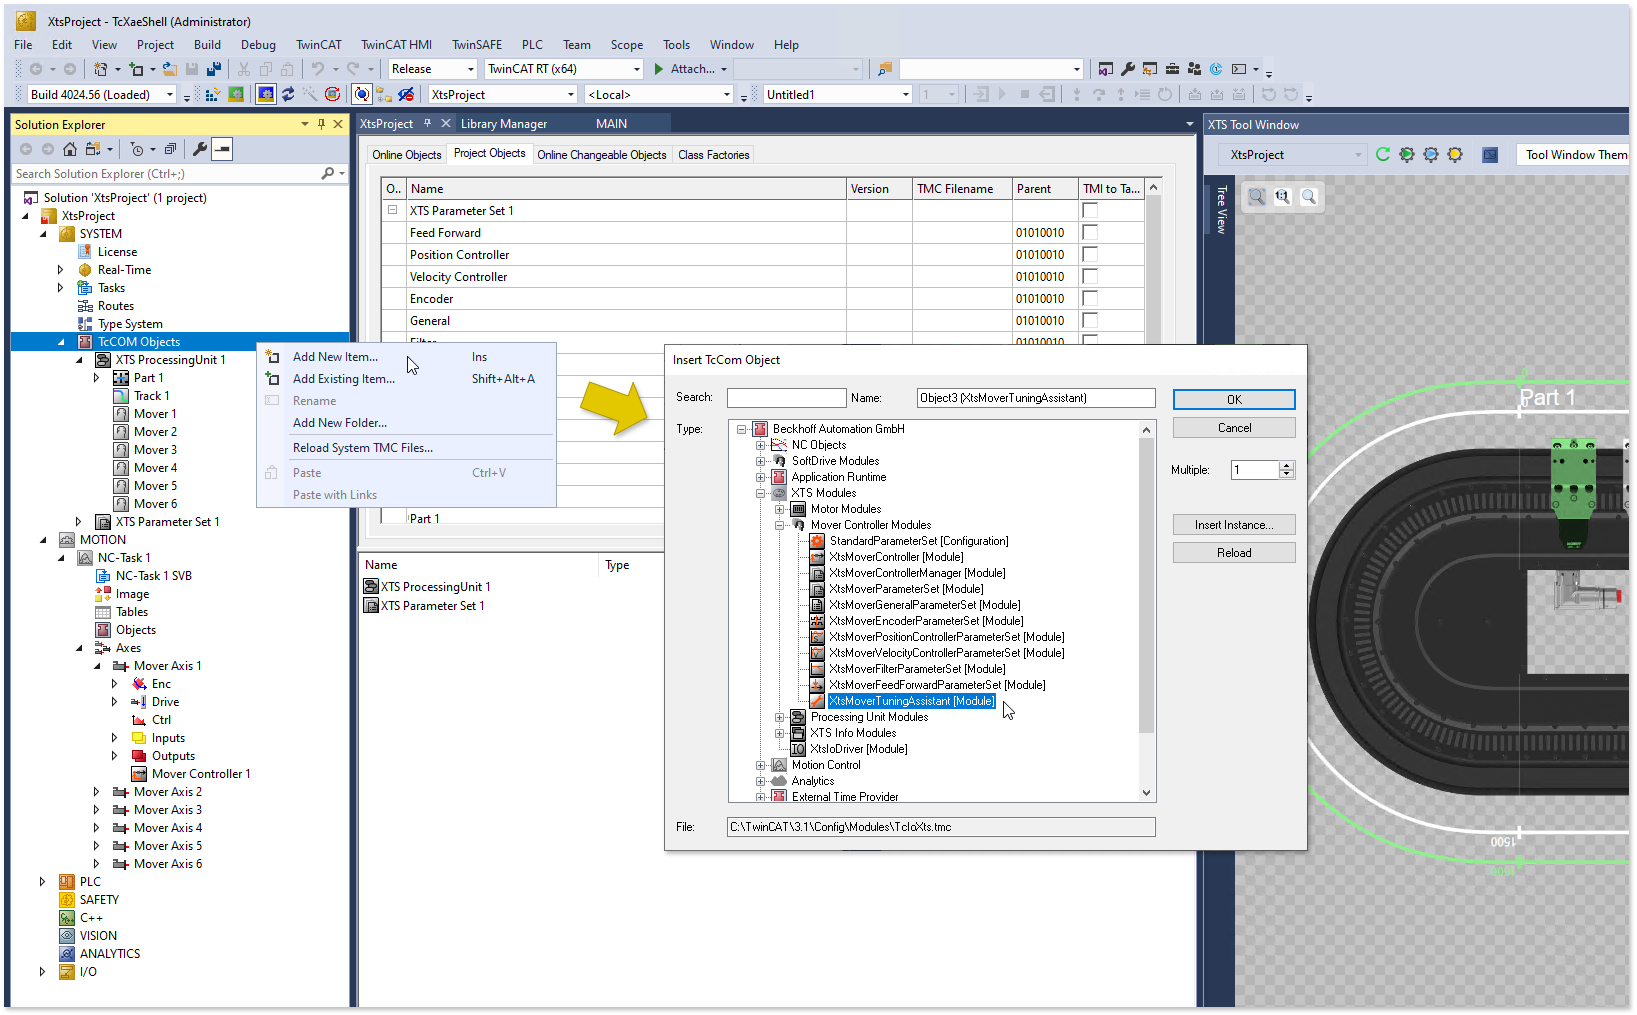
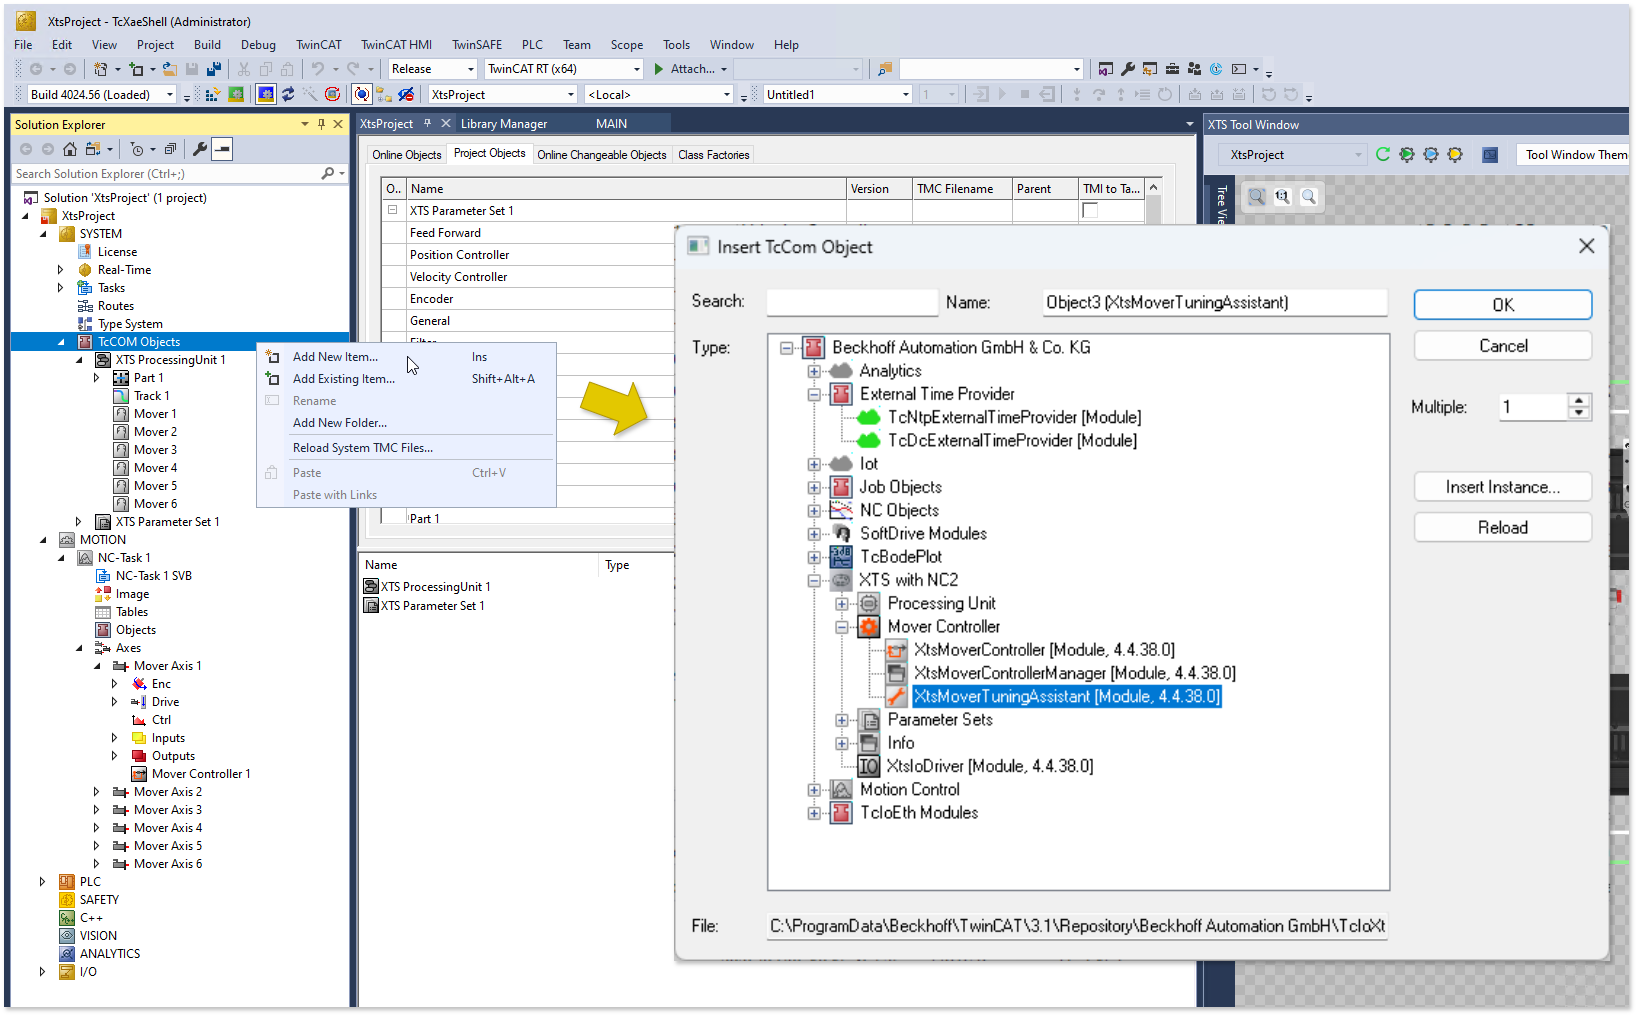
XTS tuning assist モジュール追加時の変更分を修正

diff --git a/source/xts/tuning.md b/source/xts/tuning.md
@@ -27,15 +27,12 @@ PosError
 可動子および冶具を含めた、固有の共振周波数を除去することで、サーボON時や動作時の共振を抑えることができるようになります。XTSでは「Tuning Assist」機能を用いることで、この共振周波数を除去するための最適値を得ることが可能となります。
 
 
-1. XtsTuningAssystance用のJobタスクを追加します。
-   ![](assets/add_tuning_assystant_task.png){align=center}
-
-2. `TcCOM Objects` にて右クリックのコンテキストメニューかｒ `Add New Item...` を選択し、 XtsMoverTuningAssystant モジュールを追加します。
+1. `TcCOM Objects` にて右クリックのコンテキストメニューかｒ `Add New Item...` を選択し、 XtsMoverTuningAssystant モジュールを追加します。
    
-    `XTS Modules` > `Mover Controller Modules` > `XtsMoverTuningAssistant [Module]`
+    `XTS with NC2` > `Mover Controller` > `XtsMoverTuningAssistant [Module *.*.**.*]`
    ![](assets/add_tuning_assystant_object.png){align=center}
 
-3. オブジェクトとタスクを紐づけます
+2. `XtsMoverTuningAssistant` を作成すると、自動的に `Job Task` タスクが作成されます。オブジェクトとタスクを紐づけます。
    ![](assets/map_tuning_assystance_objerct_task.png){align=center}
 
 
